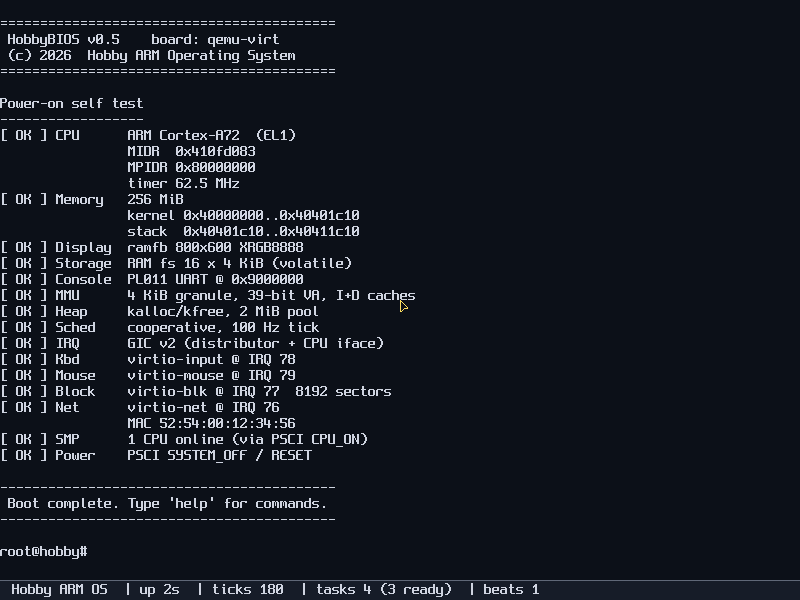
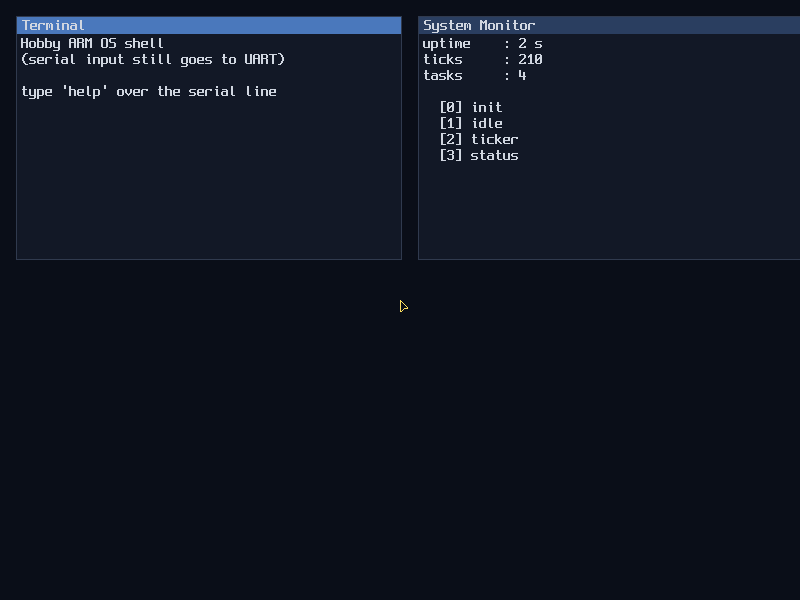
I1: window primitives + first compositor + two demo windows
A small window_t holds a 14-row x 48-col text buffer plus title and
focus state. window_compose paints the desktop wallpaper, walks all
windows back-to-front (focused one on top), draws their border /
title bar / content area, and overlays the mouse cursor.

The status thread now refreshes the System Monitor window on every
tick (uptime, ticks, tasks, ps list) and recomposes the framebuffer
~10 Hz. The POST output still goes through fb_console / UART so
it's visible on the serial line, but the graphical screen turns into
a real desktop right after boot:

  +----------------------+ +-----------------------+
  | Terminal             | | System Monitor        |
  | Hobby ARM OS shell   | | uptime    : 2 s       |
  | (serial input still  | | ticks     : 210       |
  |  goes to UART)       | | tasks     : 4         |
  | type 'help' over     | |   [0] init            |
  |  the serial line     | |   [1] idle            |
  +----------------------+ |   [2] ticker          |
                           |   [3] status          |
                           +-----------------------+

Mouse cursor moves over both windows but click/focus dispatching is
still I3's job.

diff --git a/src/window.c b/src/window.c
@@ -1,0 +1,198 @@
+#include <stdint.h>
+#include "window.h"
+#include "fb.h"
+#include "fb_console.h"
+#include "str.h"
+
+#ifdef BOARD_HAS_GIC
+#include "virtio_mouse.h"
+#endif
+
+#define MAX_WINDOWS 8
+
+static window_t windows[MAX_WINDOWS];
+static int      window_n;
+static int      focus_idx = -1;
+
+#define DESKTOP_BG  0x000a0e18u
+#define WIN_BG      0x00121826u
+#define WIN_FG      0x00d0d6e0u
+#define WIN_ACCENT  0x002a3e60u
+#define WIN_ACCENT_FOCUS 0x004a78bcu
+#define WIN_BORDER_C  0x00303a4eu
+#define CURSOR_COLOR  0x00ffe060u
+
+static void copy_title(char *dst, const char *src) {
+    int i = 0;
+    while (i < WIN_TITLE_MAX - 1 && src[i]) {
+        dst[i] = src[i];
+        i++;
+    }
+    dst[i] = '\0';
+}
+
+void window_init(void) {
+    window_n = 0;
+    focus_idx = -1;
+    for (int i = 0; i < MAX_WINDOWS; i++) {
+        windows[i].visible = 0;
+    }
+}
+
+window_t *window_create(const char *title, int x, int y) {
+    if (window_n >= MAX_WINDOWS) return NULL;
+    window_t *w = &windows[window_n];
+    w->id      = window_n;
+    w->x       = x;
+    w->y       = y;
+    w->w       = WIN_COLS * WIN_CHAR_W + 2 * WIN_BORDER;
+    w->h       = WIN_TITLE_H + WIN_ROWS * WIN_CHAR_H + 2 * WIN_BORDER;
+    copy_title(w->title, title);
+    w->visible = 1;
+    w->focused = (window_n == 0);
+    w->bg      = WIN_BG;
+    w->fg      = WIN_FG;
+    w->accent  = WIN_ACCENT;
+    w->cur_row = 0;
+    w->cur_col = 0;
+    for (int r = 0; r < WIN_ROWS; r++)
+        for (int c = 0; c < WIN_COLS; c++)
+            w->text[r][c] = ' ';
+    if (focus_idx < 0) focus_idx = window_n;
+    window_n++;
+    return w;
+}
+
+void window_clear(window_t *w) {
+    w->cur_row = 0;
+    w->cur_col = 0;
+    for (int r = 0; r < WIN_ROWS; r++)
+        for (int c = 0; c < WIN_COLS; c++)
+            w->text[r][c] = ' ';
+}
+
+static void scroll_up(window_t *w) {
+    for (int r = 0; r < WIN_ROWS - 1; r++) {
+        for (int c = 0; c < WIN_COLS; c++) {
+            w->text[r][c] = w->text[r + 1][c];
+        }
+    }
+    for (int c = 0; c < WIN_COLS; c++) {
+        w->text[WIN_ROWS - 1][c] = ' ';
+    }
+}
+
+void window_putc(window_t *w, char c) {
+    if (c == '\n') {
+        w->cur_col = 0;
+        w->cur_row++;
+        if (w->cur_row >= WIN_ROWS) {
+            scroll_up(w);
+            w->cur_row = WIN_ROWS - 1;
+        }
+        return;
+    }
+    if (c == '\r') {
+        w->cur_col = 0;
+        return;
+    }
+    if (c == '\b') {
+        if (w->cur_col > 0) {
+            w->cur_col--;
+            w->text[w->cur_row][w->cur_col] = ' ';
+        }
+        return;
+    }
+    if ((unsigned char)c < 0x20 || (unsigned char)c >= 0x7f) return;
+
+    w->text[w->cur_row][w->cur_col] = c;
+    w->cur_col++;
+    if (w->cur_col >= WIN_COLS) {
+        w->cur_col = 0;
+        w->cur_row++;
+        if (w->cur_row >= WIN_ROWS) {
+            scroll_up(w);
+            w->cur_row = WIN_ROWS - 1;
+        }
+    }
+}
+
+void window_puts(window_t *w, const char *s) {
+    while (*s) window_putc(w, *s++);
+}
+
+void window_set_focus(window_t *w) {
+    if (!w) return;
+    for (int i = 0; i < window_n; i++) {
+        windows[i].focused = (&windows[i] == w);
+    }
+    focus_idx = w->id;
+}
+
+window_t *window_focused(void) {
+    if (focus_idx < 0 || focus_idx >= window_n) return NULL;
+    return &windows[focus_idx];
+}
+
+int window_count(void) { return window_n; }
+
+window_t *window_at(int idx) {
+    if (idx < 0 || idx >= window_n) return NULL;
+    return &windows[idx];
+}
+
+static void paint_window(window_t *w) {
+    if (!w->visible) return;
+
+    /* Border + frame */
+    fb_fill_rect(w->x, w->y, w->w, w->h, WIN_BORDER_C);
+    /* Title bar */
+    fb_fill_rect(w->x + WIN_BORDER, w->y + WIN_BORDER,
+                 w->w - 2 * WIN_BORDER, WIN_TITLE_H - WIN_BORDER,
+                 w->focused ? WIN_ACCENT_FOCUS : w->accent);
+    /* Title text */
+    int tx = w->x + 6;
+    int ty = w->y + (WIN_TITLE_H - 16) / 2 + 1;
+    for (int i = 0; w->title[i] && i < WIN_TITLE_MAX; i++) {
+        fb_draw_glyph16((uint32_t)(tx + i * WIN_CHAR_W),
+                        (uint32_t)ty, w->title[i], WIN_FG);
+    }
+    /* Content background */
+    int cx = w->x + WIN_BORDER;
+    int cy = w->y + WIN_TITLE_H;
+    int cw = w->w - 2 * WIN_BORDER;
+    int ch = w->h - WIN_TITLE_H - WIN_BORDER;
+    fb_fill_rect(cx, cy, cw, ch, w->bg);
+    /* Content text */
+    for (int r = 0; r < WIN_ROWS; r++) {
+        for (int c = 0; c < WIN_COLS; c++) {
+            char ch_ = w->text[r][c];
+            if (ch_ == ' ') continue;
+            fb_draw_glyph16((uint32_t)(cx + 4 + c * WIN_CHAR_W),
+                            (uint32_t)(cy + 2 + r * WIN_CHAR_H),
+                            ch_, w->fg);
+        }
+    }
+}
+
+void window_compose(void) {
+    fb_clear(DESKTOP_BG);
+
+    /* Paint windows back-to-front so the focused one ends up on top */
+    int focus = focus_idx;
+    for (int i = 0; i < window_n; i++) {
+        if (i == focus) continue;
+        paint_window(&windows[i]);
+    }
+    if (focus >= 0 && focus < window_n) {
+        paint_window(&windows[focus]);
+    }
+
+#ifdef BOARD_HAS_GIC
+    if (vmouse_present()) {
+        int32_t mx = 0, my = 0;
+        vmouse_position(&mx, &my);
+        fb_draw_cursor((uint32_t)mx, (uint32_t)my, CURSOR_COLOR);
+    }
+#endif
+}

diff --git a/src/kernel.c b/src/kernel.c
@@ -22,6 +22,7 @@
 #ifdef BOARD_HAS_RAMFB
 #include "fb.h"
 #include "fb_console.h"
+#include "window.h"
 #endif
 
 extern uint8_t _kernel_start[];
@@ -221,45 +222,50 @@ static void format_uint(char *buf, uint64_t v) {
     buf[o] = '\0';
 }
 
+static window_t *win_terminal;
+static window_t *win_monitor;
+
+static void render_monitor_window(void) {
+    if (!win_monitor) return;
+    window_clear(win_monitor);
+
+    char buf[64];
+    int running = 0, ready = 0;
+    int total = task_state_count(&running, &ready);
+
+    window_puts(win_monitor, "uptime    : ");
+    format_uint(buf, sys_uptime_seconds());
+    window_puts(win_monitor, buf);
+    window_puts(win_monitor, " s\n");
+
+    window_puts(win_monitor, "ticks     : ");
+    format_uint(buf, timer_ticks());
+    window_puts(win_monitor, buf);
+    window_puts(win_monitor, "\n");
+
+    window_puts(win_monitor, "tasks     : ");
+    format_uint(buf, (uint64_t)total);
+    window_puts(win_monitor, buf);
+    window_puts(win_monitor, "\n\n");
+
+    for (task_t *t = task_first(); t; t = t->next) {
+        format_uint(buf, (uint64_t)t->id);
+        window_puts(win_monitor, "  [");
+        window_puts(win_monitor, buf);
+        window_puts(win_monitor, "] ");
+        window_puts(win_monitor, t->name);
+        window_puts(win_monitor, "\n");
+    }
+}
+
 static void status_thread(void *arg) {
     (void)arg;
-    static char line[120];
     for (;;) {
-        uint64_t s = sys_uptime_seconds();
-        uint64_t ticks = timer_ticks();
-        int running = 0, ready = 0;
-        int total = task_state_count(&running, &ready);
-
-        char up[24], tk[24], to[8], tr[8];
-        format_uint(up, s);
-        format_uint(tk, ticks);
-        format_uint(to, (uint64_t)total);
-        format_uint(tr, (uint64_t)ready);
-
-        char *p = line;
-        const char *parts[] = {
-            "Hobby ARM OS  | up ", up, "s  | ticks ", tk,
-            "  | tasks ", to, " (", tr, " ready)  | beats ", NULL
-        };
-        for (int i = 0; parts[i]; i++) {
-            const char *s2 = parts[i];
-            while (*s2) *p++ = *s2++;
-        }
-        char beats[24];
-        format_uint(beats, ticker_beats);
-        const char *s3 = beats;
-        while (*s3) *p++ = *s3++;
-        *p = '\0';
-
-#ifdef BOARD_HAS_RAMFB
-        fb_console_status_set(line);
-        if (vmouse_present()) {
-            int32_t mx = 0, my = 0;
-            vmouse_position(&mx, &my);
-            fb_draw_cursor((uint32_t)mx, (uint32_t)my, 0x00ffe060u);
-        }
-#endif
         ticker_beats++;
+        render_monitor_window();
+#ifdef BOARD_HAS_RAMFB
+        window_compose();
+#endif
         for (int i = 0; i < 5; i++) task_yield();
         __asm__ volatile("wfi");
     }
@@ -314,6 +320,15 @@ void kernel_main(void) {
 #ifdef BOARD_HAS_RAMFB
     if (fb_init() == 0) {
         fb_console_init(BG_COLOR, FG_COLOR);
+        window_init();
+        win_terminal = window_create("Terminal", 16, 16);
+        win_monitor  = window_create("System Monitor",
+                                     16 + win_terminal->w + 16, 16);
+        window_puts(win_terminal,
+                    "Hobby ARM OS shell\n"
+                    "(serial input still goes to UART)\n"
+                    "\n"
+                    "type 'help' over the serial line\n");
     }
 #endif
 

diff --git a/src/window.h b/src/window.h
@@ -1,0 +1,42 @@
+#ifndef HOBBY_OS_WINDOW_H
+#define HOBBY_OS_WINDOW_H
+
+#include <stdint.h>
+
+#define WIN_TITLE_MAX 32
+#define WIN_ROWS      14
+#define WIN_COLS      48
+#define WIN_CHAR_W    8
+#define WIN_CHAR_H    16
+#define WIN_TITLE_H   18
+#define WIN_BORDER    1
+
+typedef struct window {
+    int      id;
+    int      x, y, w, h;
+    char     title[WIN_TITLE_MAX];
+    int      visible;
+    int      focused;
+    uint32_t bg;
+    uint32_t fg;
+    uint32_t accent;
+    /* tiny back buffer of text glyphs */
+    char     text[WIN_ROWS][WIN_COLS];
+    int      cur_row;
+    int      cur_col;
+} window_t;
+
+void     window_init(void);
+window_t *window_create(const char *title, int x, int y);
+void     window_clear(window_t *w);
+void     window_putc(window_t *w, char c);
+void     window_puts(window_t *w, const char *s);
+void     window_set_focus(window_t *w);
+window_t *window_focused(void);
+
+void     window_compose(void);   /* paint all windows + cursor */
+
+int      window_count(void);
+window_t *window_at(int idx);
+
+#endif
